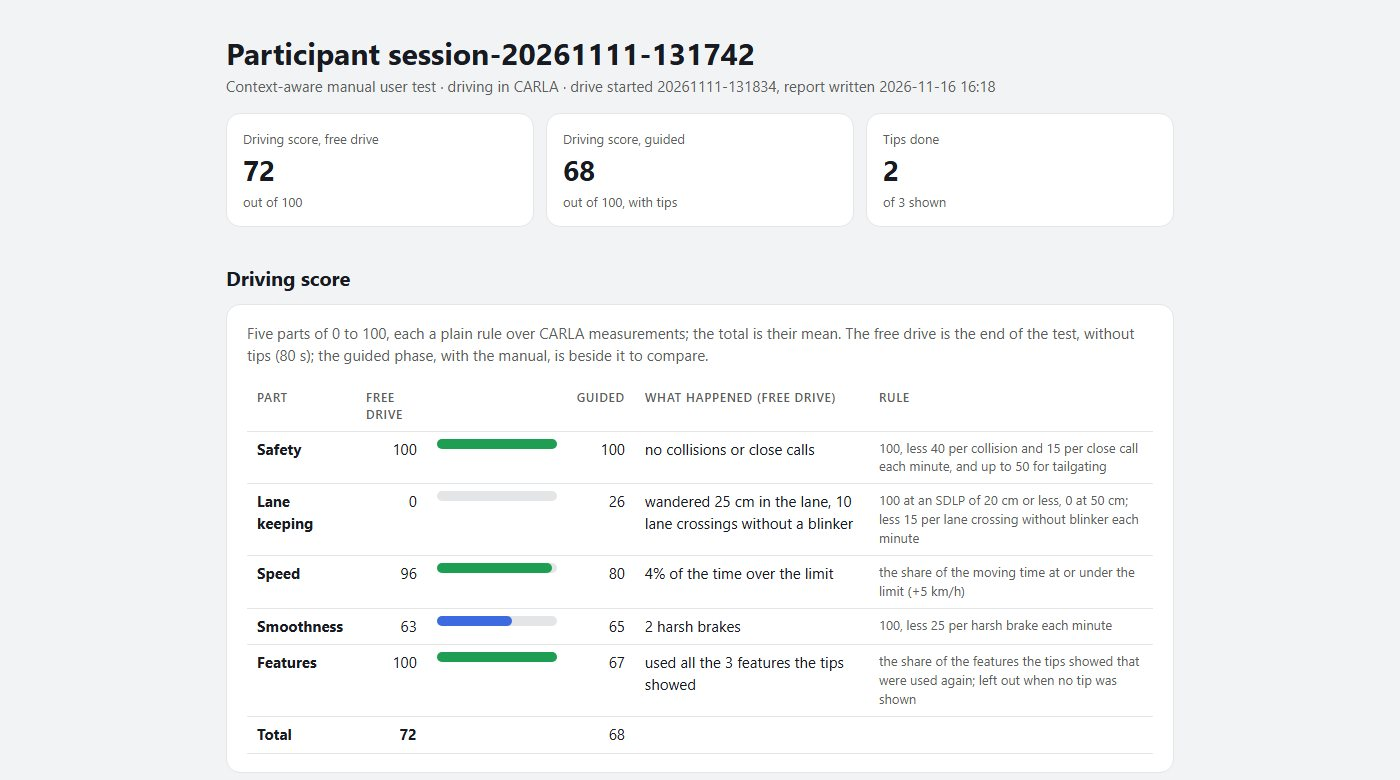
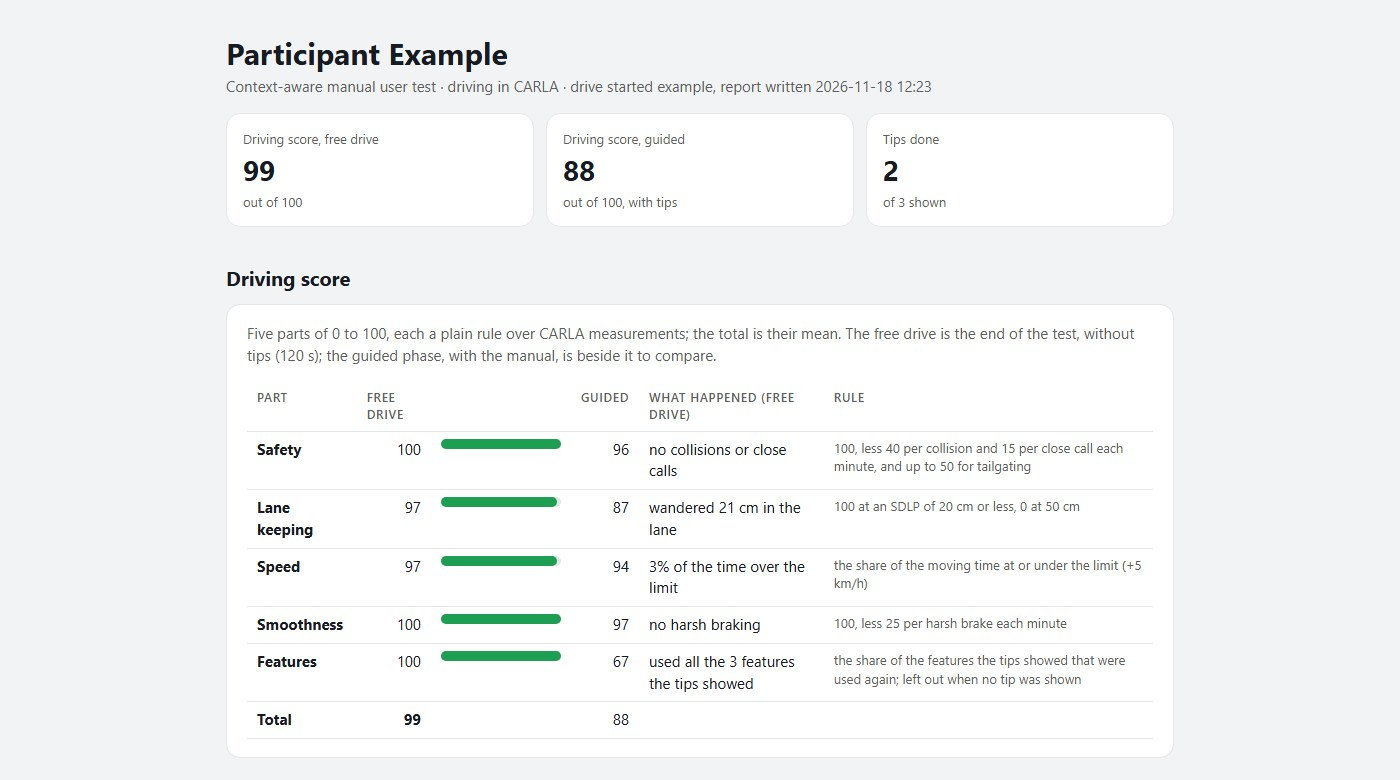
Remove the blinkers
The drive does not use them. Z and X no longer work them, holding Z still
resets for the next participant, and indicating no longer delays a tip. Lane
crossings cost no points now that a lane change cannot be signalled; the report
still counts them. The README's report picture is a new example with made-up
numbers.

diff --git a/drive.py b/drive.py
@@ -104,7 +104,6 @@ Use ARROWS or WASD keys for control.
 
     L            : toggle next light type
     SHIFT + L    : toggle high beam
-    Z/X          : toggle right/left blinker
     I            : toggle interior light
 
     TAB          : change sensor position
@@ -119,7 +118,7 @@ Use ARROWS or WASD keys for control.
     B            : start the context-aware manual
     P            : skip the tip on screen (or the one it waits for), for testing
     hold R       : context-aware manual off
-    hold Z (5 s) : reset for the next participant (a tap is still the left blinker)
+    hold Z (5 s) : reset for the next participant
     F            : start the scored free drive at the end of the test; again to end it
     J            : swap the dashboard between the full and the minimal layout
 
@@ -200,7 +199,6 @@ try:
     from pygame.locals import K_t
     from pygame.locals import K_v
     from pygame.locals import K_w
-    from pygame.locals import K_x
     from pygame.locals import K_z
     from pygame.locals import K_MINUS
     from pygame.locals import K_EQUALS
@@ -713,7 +711,7 @@ class DrivingContext(object):
         self._next = 0.0
         self._around = (0, 0, None)
 
-    def update(self, ego, indicating):
+    def update(self, ego):
         """The context Tips.update() takes."""
         speed = _speed_kmh(ego)
         now = time.time()
@@ -722,7 +720,7 @@ class DrivingContext(object):
             self._around = self._measure(ego, speed)
         cars, walkers, junction = self._around
         return dict(speed=speed, yaw_rate=ego.get_angular_velocity().z, cars_near=cars,
-                    walkers_near=walkers, junction_ahead=junction, indicating=indicating)
+                    walkers_near=walkers, junction_ahead=junction)
 
     def _measure(self, ego, speed):
         here = ego.get_location()
@@ -767,7 +765,7 @@ class StudyProbe(object):
         self._leads = LeadFinder(world)
         self._speed_limit = speed_limit
 
-    def measure(self, ego, indicating, brake_pedal):
+    def measure(self, ego, brake_pedal):
         transform = ego.get_transform()
         here = transform.location
         lateral = lane = None
@@ -785,7 +783,7 @@ class StudyProbe(object):
         return dict(speed=_speed_kmh(ego), limit=limit, lateral=lateral, lane=lane,
                     junction=junction, lead=self._leads.update(ego),
                     a_long=a.x * f.x + a.y * f.y + a.z * f.z, steer=ego.get_control().steer,
-                    indicating=indicating, brake_pedal=brake_pedal, x=here.x, y=here.y)
+                    brake_pedal=brake_pedal, x=here.x, y=here.y)
 
 
 def drain_sensor_log(sensor):
@@ -1229,8 +1227,7 @@ class KeyboardControl(object):
         # The context-aware manual, and when R went down to turn it off.
         self._tips = tips
         self._r_down = None
-        # When Z went down, and whether its hold has reset the test (so its
-        # release does not also work the left blinker).
+        # When Z went down, and whether this hold has reset the test already.
         self._z_down = None
         self._z_held = False
         # The user test: its log, and whether it also runs CARLA's recorder.
@@ -1305,9 +1302,7 @@ class KeyboardControl(object):
                     self._r_down = None
                 if event.key == K_z:
                     self._z_down = None
-                    if self._z_held:
-                        self._z_held = False
-                        continue
+                    self._z_held = False
                 if self._is_quit_shortcut(event.key):
                     return True
                 elif event.key == K_BACKSPACE:
@@ -1478,10 +1473,6 @@ class KeyboardControl(object):
                             current_lights ^= carla.VehicleLightState.Fog
                     elif event.key == K_i:
                         current_lights ^= carla.VehicleLightState.Interior
-                    elif event.key == K_z:
-                        current_lights ^= carla.VehicleLightState.LeftBlinker
-                    elif event.key == K_x:
-                        current_lights ^= carla.VehicleLightState.RightBlinker
 
         if self._r_down is not None and time.time() - self._r_down >= CONTEXT_OFF_HOLD_SECONDS:
             self._r_down = None
@@ -1874,12 +1865,6 @@ class KeyboardControl(object):
     @property
     def autopilot_enabled(self):
         return self._autopilot_enabled
-
-    @property
-    def indicating(self):
-        """A blinker is on."""
-        blinkers = carla.VehicleLightState.LeftBlinker | carla.VehicleLightState.RightBlinker
-        return bool(getattr(self, '_lights', 0) & blinkers)
 
     def _parse_walker_keys(self, keys, milliseconds, world):
         self._control.speed = 0.0
@@ -2652,7 +2637,7 @@ def game_loop(args):
                 wheel.update_ffb(world.player, world.imu_sensor,
                                  controller.autopilot_enabled, clock.get_time() / 1000.0)
             state = controller.dashboard_state()
-            state.update(tips.update(state, context.update(world.player, controller.indicating)))
+            state.update(tips.update(state, context.update(world.player)))
             if drive_log.running:
                 for hit in drain_sensor_log(world.collision_sensor):
                     drive_log.event('collision', hit['other'])
@@ -2660,10 +2645,9 @@ def game_loop(args):
                     markings = [m for m in crossing['markings'] if m != 'NONE']
                     if not markings:
                         continue
-                    who = ('autopilot' if controller.autopilot_enabled else
-                           'signalled' if controller.indicating else 'unsignalled')
+                    who = 'autopilot' if controller.autopilot_enabled else 'driver'
                     drive_log.event('lane-crossing', '%s %s' % (who, '+'.join(markings)))
-                state.update(drive_log.frame(state, probe.measure(world.player, controller.indicating, controller.brake_pedal)))
+                state.update(drive_log.frame(state, probe.measure(world.player, controller.brake_pedal)))
             else:
                 drain_sensor_log(world.collision_sensor)
                 drain_sensor_log(world.lane_invasion_sensor)

diff --git a/manual/drive_log.py b/manual/drive_log.py
@@ -13,7 +13,6 @@ probe):
   lead         (gap in m, speed in km/h) of the car ahead in the lane, or None
   a_long       m/s2 along the car, - braking (Vehicle.get_acceleration)
   steer        -1..1, the steering applied
-  indicating   a blinker is on
   brake_pedal  0..1, the driver's own brake, before cruise control and regen
   x, y         m
 
@@ -35,7 +34,7 @@ The metrics are the ones the driving-simulator literature uses, from what
 CARLA gives: collisions (the collision sensor), close calls (time to
 collision with the car ahead under TTC_CRITICAL_S), tailgating (time
 headway under THW_SHORT_S), lane keeping (the standard deviation of lateral
-position, SDLP, and lane crossings without a blinker from the lane-invasion
+position, SDLP, and lane crossings from the lane-invasion
 sensor), speeding (over the map's limit) and harsh braking. Feature use is
 which of the features the tips prompted the participant to try they use
 again, and how long the assists were on. score() turns them into five parts of 0-100,
@@ -124,7 +123,7 @@ def feature_group(feature):
 
 COLUMNS = ['t', 'phase', 'x', 'y', 'speed', 'limit', 'assist', 'gear', 'drive_mode', 'regen',
            'pedal', 'throttle', 'brake', 'brake_pedal', 'steer', 'a_long', 'lateral', 'lane', 'junction',
-           'lead_gap', 'lead_speed', 'thw', 'ttc', 'indicating', 'tip']
+           'lead_gap', 'lead_speed', 'thw', 'ttc', 'tip']
 
 # What each metric is, for drive.json and the report.
 METRICS = {
@@ -141,8 +140,8 @@ METRICS = {
               'of at least %.0f s in one lane, outside junctions, above %.0f km/h, while the driver steers, '
               'leaving out %.0f s either side of each lane crossing.'
               % (SDLP_MIN_STRETCH_S, SDLP_MIN_KMH, SDLP_LANE_CHANGE_S),
-    'unsignalled_crossings': 'Lane markings crossed without a blinker while the driver steers, from CARLA\'s '
-                             'lane-invasion sensor.',
+    'lane_crossings': 'Lane markings crossed while the driver steers, from CARLA\'s lane-invasion sensor. '
+                      'Shown for information: changing lanes costs no points.',
     'speeding_share': 'Share of the time moving (over %.0f km/h) above the speed limit + %.0f km/h; the limit '
                       'is the map\'s signs, or the driver script\'s --speed-limit.' % (MOVING_KMH, SPEEDING_MARGIN_KMH),
     'mean_speed_kmh': 'Average speed while moving.',
@@ -246,8 +245,8 @@ def metrics(rows, events, prompted=()):
         following_s=round(following, 1),
         short_headway_share=round(short / following, 3) if following else 0.0,
         sdlp_m=round(math.sqrt(sq / n), 3) if n else None,
-        unsignalled_crossings=sum(1 for e in events if e['kind'] == 'lane-crossing' and
-                                  e['detail'].startswith('unsignalled')),
+        lane_crossings=sum(1 for e in events if e['kind'] == 'lane-crossing' and
+                           e['detail'].startswith('driver')),
         speeding_share=round(over / moving, 3) if moving else 0.0,
         mean_speed_kmh=round(speed_sum / moving, 1) if moving else 0.0,
         harsh_brakes=harsh,
@@ -280,9 +279,8 @@ def score(m):
     phase compare.
       Safety      100, less 40 a collision, 15 a close call, and up to 50
                   for the share of following time spent tailgating
-      Lane        100 at an SDLP of SDLP_GOOD_M or less, 0 at SDLP_POOR_M,
-                  less 15 an unsignalled lane crossing; 100 when the
-                  autopilot did all the steering
+      Lane        100 at an SDLP of SDLP_GOOD_M or less, 0 at SDLP_POOR_M;
+                  100 when the autopilot did all the steering
       Speed       the share of the moving time within the limit
       Smoothness  100, less 25 a harsh brake
       Features    the share of the features the tips prompted that the
@@ -312,10 +310,6 @@ def score(m):
     else:
         lane = 100 * (SDLP_POOR_M - m['sdlp_m']) / (SDLP_POOR_M - SDLP_GOOD_M)
         note = 'wandered %.0f cm in the lane' % (100 * m['sdlp_m'])
-    lane -= 15 * per_min(m['unsignalled_crossings'])
-    if m['unsignalled_crossings']:
-        note += ', %d lane crossing%s without a blinker' % (
-            m['unsignalled_crossings'], 's' if m['unsignalled_crossings'] > 1 else '')
     parts.append(dict(key='lane', name='Lane keeping', score=_clamp(lane), note=note))
 
     parts.append(dict(key='speed', name='Speed', score=_clamp(100 * (1 - m['speeding_share'])),
@@ -442,7 +436,7 @@ class DriveLog(object):
         return round(self._clock() - self._t0, 2)
 
     def event(self, kind, detail=''):
-        """A thing that happened: collision, lane-crossing (signalled/unsignalled), ..."""
+        """A thing that happened: collision, lane-crossing (driver/autopilot), ..."""
         if not self.running:
             return
         if kind in ('collision', 'lane-crossing'):
@@ -508,7 +502,7 @@ class DriveLog(object):
                    lateral=r(probe.get('lateral'), 3), lane=probe.get('lane'),
                    junction=int(bool(probe.get('junction'))),
                    lead_gap=r(lead[0], 1) if lead else None, lead_speed=r(lead[1], 1) if lead else None,
-                   thw=thw, ttc=ttc, indicating=int(bool(probe.get('indicating'))),
+                   thw=thw, ttc=ttc,
                    tip=tip.get('id') if tip else '')
         self._csv.writerow(row)
         self._rows.append(row)

diff --git a/manual/report.py b/manual/report.py
@@ -35,7 +35,7 @@ METRIC_ROWS = [
     ('following_s', 'Time following a car', lambda v: '%.0f s' % v),
     ('short_headway_share', 'Tailgating (of following time)', lambda v: '%.0f%%' % (100 * v)),
     ('sdlp_m', 'SDLP (lane wander)', lambda v: '–' if v is None else '%.0f cm' % (100 * v)),
-    ('unsignalled_crossings', 'Lane crossings without blinker', str),
+    ('lane_crossings', 'Lane crossings', str),
     ('speeding_share', 'Time over the speed limit', lambda v: '%.0f%%' % (100 * v)),
     ('harsh_brakes', 'Harsh brakes', str),
     ('assist_share', 'Time with each assist', lambda v: ', '.join(
@@ -46,7 +46,7 @@ METRIC_ROWS = [
 
 SCORE_RULES = {
     'safety': '100, less 40 per collision and 15 per close call each minute, and up to 50 for tailgating',
-    'lane': '100 at an SDLP of 20 cm or less, 0 at 50 cm; less 15 per lane crossing without blinker each minute',
+    'lane': '100 at an SDLP of 20 cm or less, 0 at 50 cm',
     'speed': 'the share of the moving time at or under the limit (+5 km/h)',
     'smooth': '100, less 25 per harsh brake each minute',
     'features': 'the share of the features the tips showed that were used again; left out when no tip was shown',
@@ -203,7 +203,7 @@ def summary_row(participant, drive):
             row['%s_%s' % (name, key)] = next((p['score'] for p in s['parts'] if p['key'] == key), None) if s else None
         m = phase['metrics'] if phase else {}
         for key in ('duration_s', 'distance_km', 'collisions', 'close_calls', 'short_headway_share', 'sdlp_m',
-                    'unsignalled_crossings', 'speeding_share', 'harsh_brakes', 'takeovers'):
+                    'lane_crossings', 'speeding_share', 'harsh_brakes', 'takeovers'):
             row['%s_%s' % (name, key)] = m.get(key)
         row['%s_features_used' % name] = len(m['prompted_features_used']) if 'prompted_features_used' in m else None
         row['%s_features_prompted' % name] = len(m['prompted_features']) if 'prompted_features' in m else None

diff --git a/manual/tips.py b/manual/tips.py
@@ -11,7 +11,6 @@ measures in the world:
   cars_near      vehicles close by
   walkers_near   pedestrians close by
   junction_ahead m to a junction coming up on the road ahead, or None
-  indicating     a blinker is on
 
 It returns the values for the dashboard's tip panel and manual indicator.
 
@@ -27,7 +26,7 @@ are no experience levels, as the car is new to everyone. A tip comes up when
     straight away: starting the manual is the driver settling in);
   - and the moment is safe (Tips.moment): standing still, steady on a
     straight, or a quiet road, with no junction coming up, no crowd of cars
-    or people, and no manoeuvre (reversing, turning, indicating, braking
+    or people, and no manoeuvre (reversing, turning, braking
     hard, though not the autopilot's braking) in the last
     MANOEUVRE_HOLD_SECONDS.
 It stays until the driver does what it teaches (`learn`), then shows a
@@ -554,8 +553,6 @@ class Tips(object):
             manoeuvre = 'reversing'
         elif speed > 3.0 and yaw > TURNING_DEG_S:
             manoeuvre = 'turning'
-        elif ctx.get('indicating'):
-            manoeuvre = 'indicating'
         elif (state.get('brake', 0) >= HARD_BRAKE and speed > 5.0 and
               state.get('activeAssist') != 'Autopilot'):
             # The autopilot brakes hard as a matter of course; that is no

diff --git a/manual/__init__.py b/manual/__init__.py
@@ -319,7 +319,7 @@ def _demo():
             speed = 50 + 1.5 * math.sin(t / 3.0)
             state = dict(activeAssist='None', gear='D', brake=0)
             context = dict(speed=speed, yaw_rate=0.0, cars_near=0, walkers_near=0,
-                           junction_ahead=20.0 if t % 40 > 32 else None, indicating=False)
+                           junction_ahead=20.0 if t % 40 > 32 else None)
             state.update(tips.update(state, context))
             dashboard.update(speed=int(round(speed)), **state)
             time.sleep(1.0 / 60)

diff --git a/README.md b/README.md
@@ -73,7 +73,7 @@ While driving, the door and interior mirrors show the road behind (this picture 
 | ![The dashboard with the cruise-control tip: a drawing of the shifter with the CC button, and why now](docs/img/dashboard_tip.jpg) | ![The dashboard with adaptive cruise on, following a car at 42 m, and the manual holding back the next tip because of traffic](docs/img/dashboard_acc.jpg) |
 | *The first tip: on a quiet road the manual shows where CC is on the shifter. The grey lines say why it picked this moment.* | *Adaptive cruise follows the car ahead. Four cars are close by, so the next tip waits.* |
 
-![A participant's driving report: driving score of the free drive and the guided part, with the rule behind each part](docs/img/driving_report.jpg)
+![An example driving report, with made-up numbers: driving score of the free drive and the guided part, with the rule behind each part](docs/img/driving_report.jpg)
 
 *The driving report of a pilot participant (`python -m manual.report`): the score of the free drive beside the
 guided part, every part with the rule behind it, and the driving metrics below.*
@@ -83,7 +83,7 @@ guided part, every part with the rule behind it, and the driving metrics below.*
 ![How it works: the G25 and the two screens, the drive, the context-aware manual, CARLA, SUMO and the drive log](docs/how_it_works.svg)
 
 `drive.py` runs the car on the CARLA server and draws screen 1. Each frame it measures the context (speed, the
-road's speed limit, a junction ahead, cars and people nearby, turning, indicating, braking) and passes it with the
+road's speed limit, a junction ahead, cars and people nearby, turning, braking) and passes it with the
 car's state to the manual (`manual/tips.py`), which decides whether a tip is due and whether now is a good moment.
 The dashboard on screen 2 is a web page (`manual/dashboard.html`) in an Edge or Chrome app window, fed by
 server-sent events from the drive, so it needs nothing beyond Python's standard library. SUMO runs the traffic in
@@ -185,7 +185,7 @@ reserves. Esc ends the drive. Useful options (`python drive.py --help` lists all
 | **F** | start the scored free drive; F again ends it early |
 | **P** | skip the tip on screen (for testing) |
 | hold **R** | stop the manual |
-| hold **Z** (5 s) | reset for the next participant: closes the test, resets the assists, puts the car at a new place and starts a new log folder (a tap is the left blinker) |
+| hold **Z** (5 s) | reset for the next participant: closes the test, resets the assists, puts the car at a new place and starts a new log folder |
 | **J** | swap the dashboard layout |
 | **F1** | hide or show CARLA's debug HUD |
 | **Esc** | end the drive |
@@ -210,7 +210,7 @@ the last one, and only at a safe moment; it is done when the driver does what it
 | 12 | Drive with one pedal | maximum regen |
 
 A good moment is standing still, steady on a straight, or a quiet road; a bad one is a junction ahead, several
-cars or people close by, or a manoeuvre (turning, indicating, reversing, braking hard) in the last few seconds.
+cars or people close by, or a manoeuvre (turning, reversing, braking hard) in the last few seconds.
 Highway ramps count as junctions. The rules and the tips' wording are in [`manual/tips.py`](manual/tips.py).
 
 ## The G25
@@ -269,7 +269,7 @@ CARLA's measurements, and the total is their mean:
 | Part | Rule |
 |---|---|
 | Safety | 100, less 40 per collision and 15 per close call (time to collision under 1.5 s) each minute, and up to 50 for tailgating |
-| Lane keeping | 100 at an SDLP of 20 cm or less, 0 at 50 cm; less 15 per lane crossing without a blinker each minute |
+| Lane keeping | 100 at an SDLP of 20 cm or less, 0 at 50 cm |
 | Speed | the share of the moving time at or under the limit (+5 km/h) |
 | Smoothness | 100, less 25 per harsh brake each minute |
 | Features | the share of the features the tips showed that were used again |
